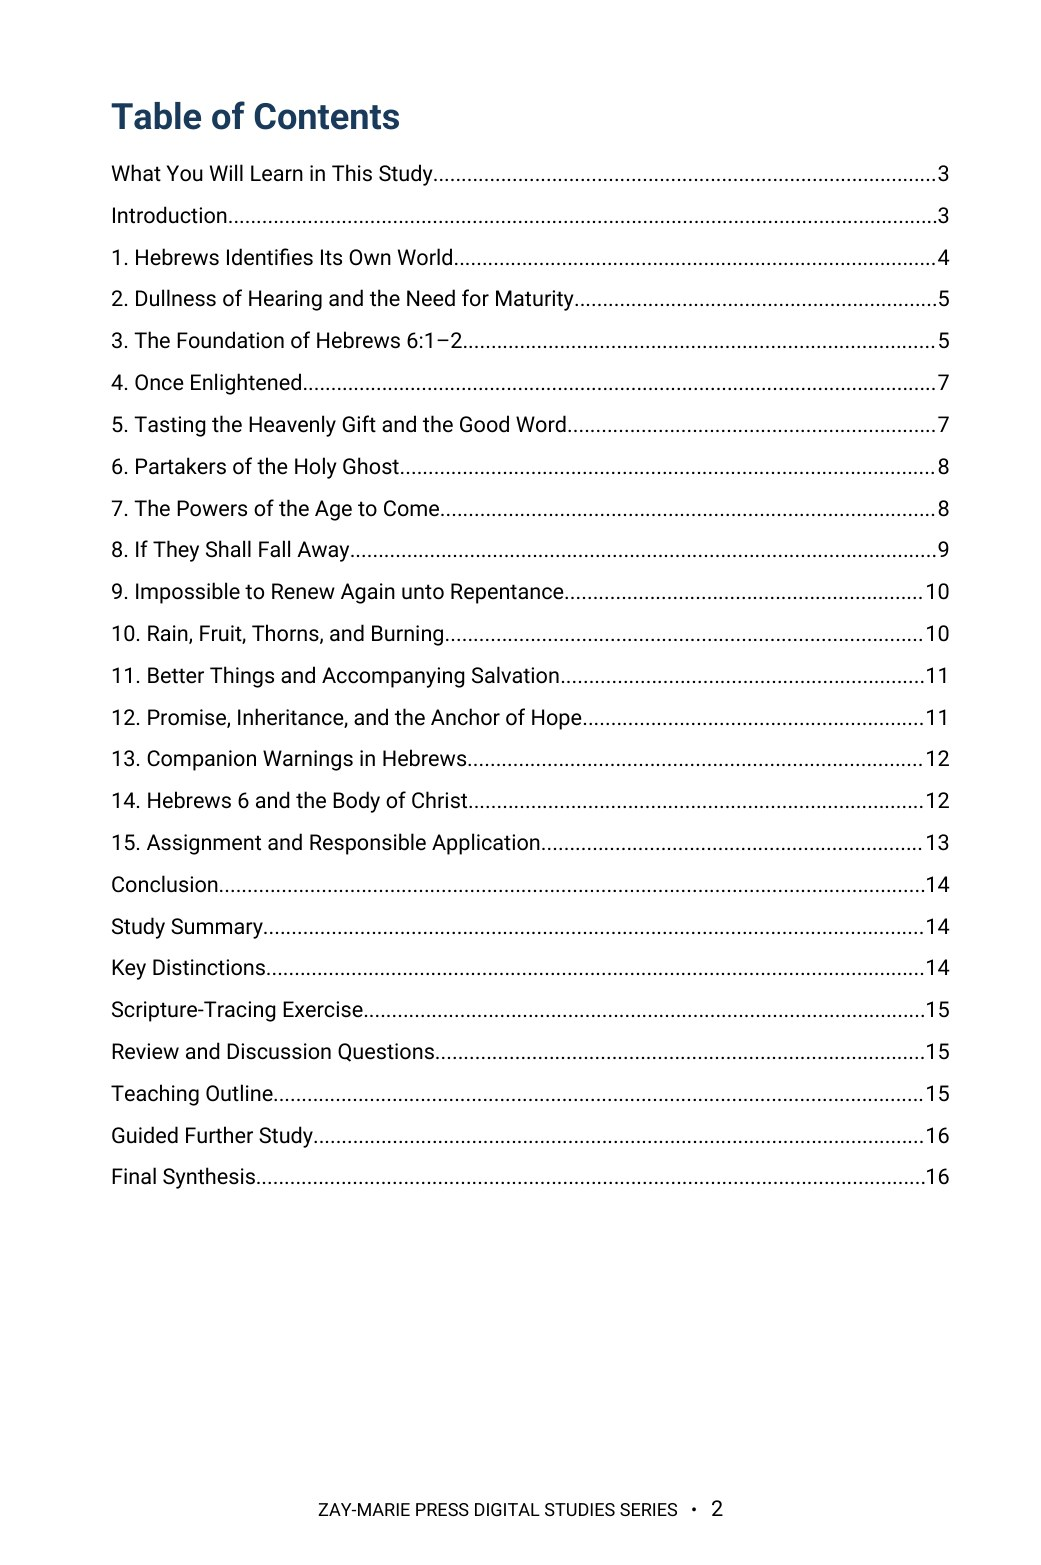
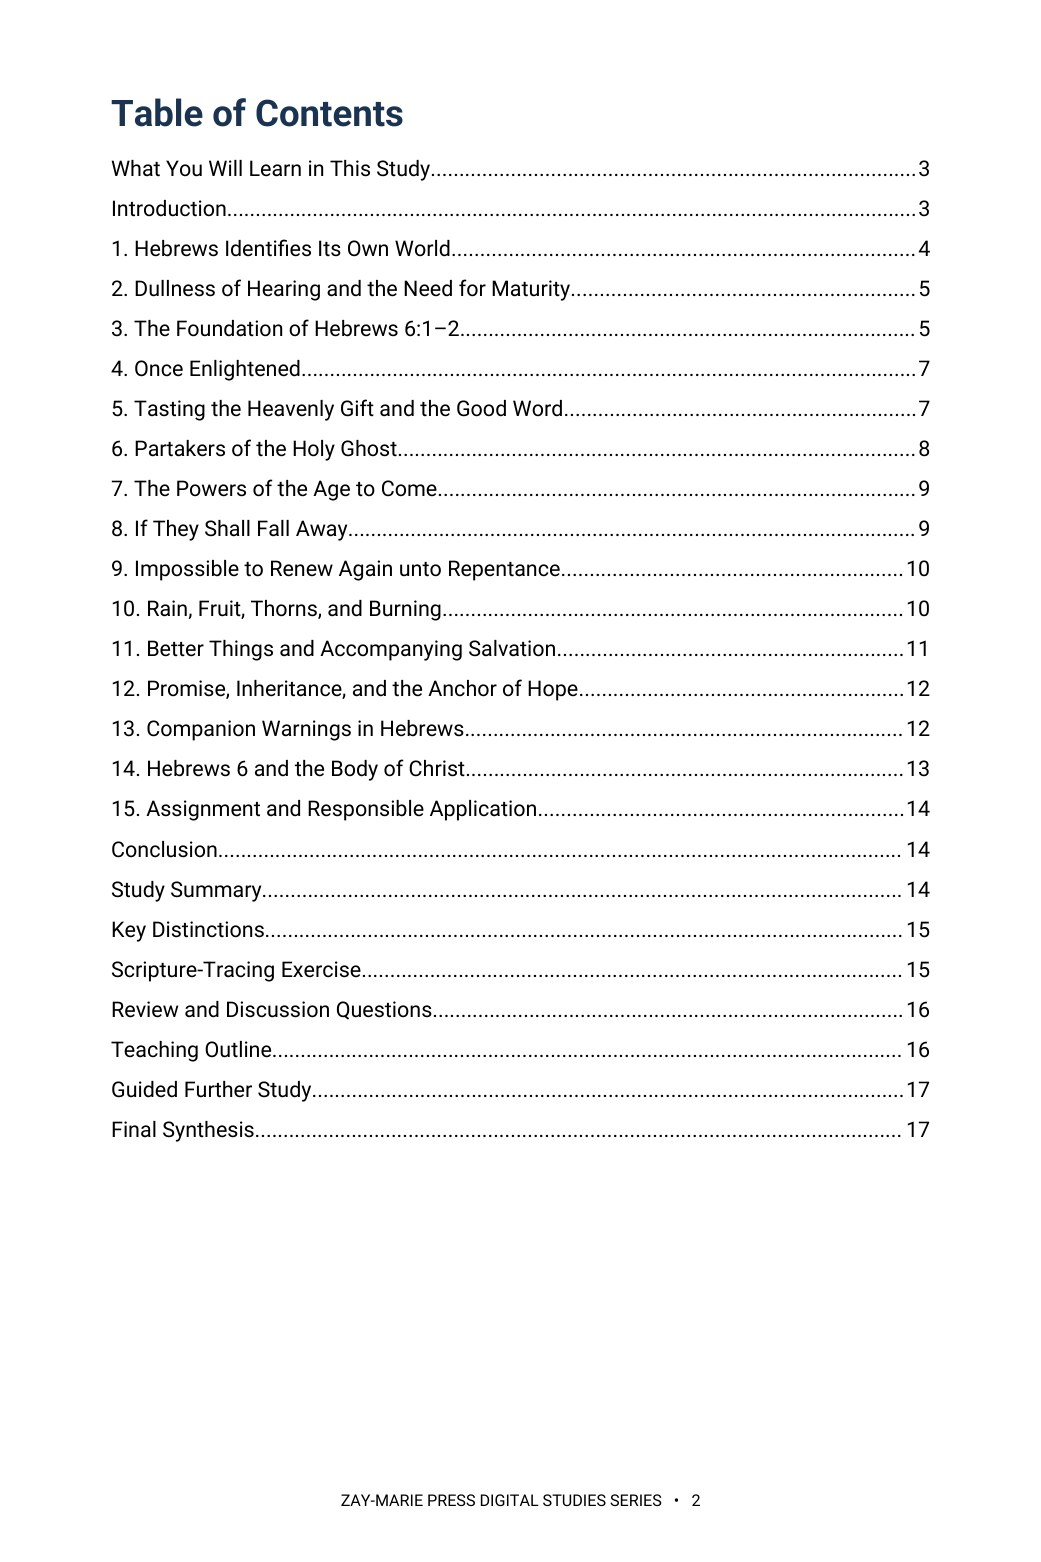
Study 28: page count 17, rebuilt preview pages and trackers for Roboto 10 pt build on current page
Claude-Session: https://claude.ai/code/session_01HC7bs9KYP2scp4hCL6DkTp

diff --git a/site.js b/site.js
@@ -62,7 +62,7 @@ const resourceModal=document.querySelector('#resource-modal'), resourceModalTitl
 if(resourceModal&&resourceModalTriggers.length){const closeResourceModal=()=>{resourceModal.hidden=true;document.body.classList.remove('resource-modal-open');lastResourceTrigger?.focus();};resourceModalTriggers.forEach(trigger=>trigger.addEventListener('click',()=>{lastResourceTrigger=trigger;if(resourceModalTitle)resourceModalTitle.textContent=trigger.dataset.title||'Resource';if(resourceModalDescription)resourceModalDescription.textContent=trigger.dataset.description||'';if(resourceModalLink){resourceModalLink.href=trigger.dataset.href||'#';resourceModalLink.textContent=trigger.dataset.linkText||'OPEN RESOURCE';}resourceModal.hidden=false;document.body.classList.add('resource-modal-open');resourceModalClose?.focus();}));resourceModalClose?.addEventListener('click',closeResourceModal);resourceModal.addEventListener('click',e=>{if(e.target===resourceModal)closeResourceModal();});document.addEventListener('keydown',e=>{if(e.key==='Escape'&&!resourceModal.hidden)closeResourceModal();});}
 
 /* Display the verified final-PDF page count at the primary purchase decision point. */
-const digitalStudyPageCounts={1:17,2:19,3:16,4:17,5:15,6:15,7:14,8:13,9:15,10:20,11:15,12:15,13:18,14:15,15:15,16:16,17:17,18:18,19:16,20:15,21:16,22:15,23:14,24:16,25:17,26:16,27:16,28:16,29:19,30:17,31:18,32:19,33:18,34:16,35:16,36:16,37:16,38:16,39:16,40:16,41:16,42:17,43:17,44:19,45:19,46:20,47:19,48:18,49:20,50:19,51:20,52:19,53:19,54:17,55:20,56:20,57:20,58:19,59:20,60:15,61:16,62:18,63:17,64:17,65:16,66:16,67:17,68:16,69:17,70:17,71:16};
+const digitalStudyPageCounts={1:17,2:19,3:16,4:17,5:15,6:15,7:14,8:13,9:15,10:20,11:15,12:15,13:18,14:15,15:15,16:16,17:17,18:18,19:16,20:15,21:16,22:15,23:14,24:16,25:17,26:16,27:16,28:17,29:19,30:17,31:18,32:19,33:18,34:16,35:16,36:16,37:16,38:16,39:16,40:16,41:16,42:17,43:17,44:19,45:19,46:20,47:19,48:18,49:20,50:19,51:20,52:19,53:19,54:17,55:20,56:20,57:20,58:19,59:20,60:15,61:16,62:18,63:17,64:17,65:16,66:16,67:17,68:16,69:17,70:17,71:16};
 const digitalStudyMatch=window.location.pathname.match(/\/study-(\d+)-/i);
 const digitalStudyFormat=document.querySelector('.detail-hero .detail-format');
 if(digitalStudyMatch&&digitalStudyFormat){const studyNumber=Number(digitalStudyMatch[1]),pageCount=digitalStudyPageCounts[studyNumber];if(pageCount)digitalStudyFormat.textContent=`Digital PDF · ${pageCount} Pages`;}

diff --git a/CLAUDE.md b/CLAUDE.md
@@ -23,7 +23,7 @@ These are kept in the repo at `controlling-documents/` and are the current versi
 - As of v1.50 (publisher directive, 2026-10-03), the **What You Will Learn in This Study** section is always bulleted, never set as running paragraphs, written into this file in the same pass (Master Standard Section 3 item 4, Section 6 structure line, Section 22): a list of bullet points, each describing one process, textual marker or interpretive discipline the reader will practice (Section 17 still governs what they may say); at most one short lead-in line may stand above the bullets (for example, “By the end of this study, you should be able to:”); the Study Goal callout and the Study Outline keep their own forms. It governs every new study and every study rebuilt or retrofitted from now on; earlier studies take it when reopened or when the publisher directs. In every study check (Step 1), report whether the section is bulleted. First applied to Study 43.
 **`controlling-documents/Digital_Studies_Relationship_Map_v1.39.md`** — records each study's distinct subject, its related studies, the eight priced six-study collections, the Paul's Missionary Journeys cross-reference map, and the five primary catalog categories (currently version 1.39, covers Studies 1–71; update it as new studies publish, bump the version number, rename the file to match, and log the change in its own version-history table — mirroring the Master Standard's `_vX.Y` filename convention). Check a proposed topic against it before recommending or writing a new study. (2026-09-28: the file was missing from this repo despite this note referencing it; replaced from the publisher's copy and bumped v1.15→v1.25 in the same pass. If this note ever again points to a version not present under `controlling-documents/`, ask the publisher for a copy rather than proceeding without the check.)
 - **`controlling-documents/Digital_Studies_Category_Standard_v1.1.md`** — FINAL and binding (publisher, 2026-10-01): the rules for the five primary catalog categories (Foundations, Israel & Prophecy, Body of Christ, Passages, Doctrinal Themes), the ordered decision procedure for new studies, the precedents, all 71 fixed assignments, and the cover-label form for each category. Read it before placing any card or cover label. Do not ask the publisher where a study belongs; apply the procedure and state the result. Only the publisher changes a ruling; then bump this Standard's version and filename, re-letter the cover, and update the Relationship Map.
-- **`controlling-documents/Doctrinal_Upgrade_Retrofit_Plan_v1.110.md`** — working tracker for retrofitting Studies 1–59 to the 2026-10-02 doctrinal upgrade (Framework/PAM v1.1, Master Standard v1.40, Rules 7–17): withdrawn-wording search keys, impact tiers, waves and the per-study method. Read it before continuing the retrofit in any session; update status, bump the version and rename the file as work proceeds.
+- **`controlling-documents/Doctrinal_Upgrade_Retrofit_Plan_v1.111.md`** — working tracker for retrofitting Studies 1–59 to the 2026-10-02 doctrinal upgrade (Framework/PAM v1.1, Master Standard v1.40, Rules 7–17): withdrawn-wording search keys, impact tiers, waves and the per-study method. Read it before continuing the retrofit in any session; update status, bump the version and rename the file as work proceeds.
 - **`controlling-documents/Doctrinal_Packet_Standard_v0.3.md`** — Doctrinal Packet Standard (DRAFT; §7 approved). Governs the separate Doctrinal Packets product strand (5-page interpretive PDFs per Bible book — a print-friendly cover as page 1 plus 4 content pages, $2.99, KJV, pilot: Genesis, live at `packet-genesis.html`, hub `doctrinal-packets.html`; site pages say "5 Pages", cover styles live in `packets.css`, Old Testament blue and New Testament soft pale green, hub listed in Bible order). **Preview rule (publisher directive, 2026-09-29, packets only):** previews show about one page's worth in two cropped views (top of page 1 through the anchor texts; the chart section) — never the exegesis, architecture, Mystery contrast, logic chain, outline, or closing. Master Standard §16/§17 still govern Digital Studies. Bump the version and rename the file as the Standard is finalized.
 - **`controlling-documents/Preview_Page_Spoiler_Retrofit_Audit_v1.4.md`** — working tracker for the Studies 1–60 preview-page conclusion-spoiler retrofit (see the section below). Read it before continuing that audit in any session; update its status fields and changelog, bump the version, and rename the file to match as the audit proceeds — same `_vX.Y` convention as the other controlling documents. As of v1.1, the website-side half was DONE: all 60 studies' "What You'll Study" text was judged against the rule (methodology documented in the file) and 22 points across 11 studies were rewritten and pushed; an unrelated Study 22 content bug (Study 21's content had leaked into it) was also found and fixed. As of v1.2, the publisher supplied Studies 1–60's interior production PDFs and the interior-PDF half was also surveyed (read-only): 10 studies (37, 41, 45, 47, 48, 49, 51, 52, 53, 54) were found to have at least one interior "What You Will Learn" violation, 50 studies were confirmed compliant, and the orphaned `assets/study-45-sanctification-under-grace.docx` (removed from the repo per the publisher in v1.0) was confirmed word-for-word identical to Study 45's actual production interior PDF content. As of v1.3, the publisher supplied editable DOCX sources for all 10 violating studies; all 15 violating points were rewritten and approved, delivered as corrected final PDFs, and — along the way — a second defect was found and fixed (Studies 47 and 48's source DOCX still had an unintegrated cover placeholder despite both being long-published live with real covers; fixed by inserting the existing approved cover art). The website's "What You Will Learn" preview image (`study-NN-page-3.jpg`) was regenerated from the corrected content for all 10 studies and pushed to `main` (commit `cea1859`), verified against a fresh clone. **The website side of this audit is now fully compliant for all 60 studies.** Outstanding: the publisher's purchasable interior PDF files themselves have corrected versions delivered, but distribution to existing purchasers was decided by the publisher on 2026-09-29: silent swap of the files behind the existing downloads, no reissue notice (recorded in the v1.4 changelog entry; the product files are not in this repo).
 

diff --git a/controlling-documents/Doctrinal_Upgrade_Retrofit_Plan_v1.111.md b/controlling-documents/Doctrinal_Upgrade_Retrofit_Plan_v1.111.md
@@ -203,3 +203,4 @@ Working tracker for correcting published studies to the Framework/PAM v1.1, Mast
 - v1.108 (2026-10-04): Study 24 rebuilt in Roboto at 10 pt on the current page, 16 pages (unchanged from the old 432×648 build). WYWL opening paragraph removed and lead-in added (eight bullets already process lines, kept); Framework wording removed from the WYWL Hebrews bullet and the section 10 Hebrews sentence (now the reader-facing covenant sentence); two 'Acts Overlap framework' phrases reworded; section 10 numbered; overlap and Rule 17 sentences added; Teaching Outline numbered; typo fixed.
 - v1.109 (2026-10-04): Study 25 rebuilt in Roboto at 10 pt on the current page, 17 pages (unchanged from the old 432×648 build). WYWL opening paragraph removed and lead-in added (eight bullets already process lines, kept); three 'The Framework…' sentences and two 'framework' phrases reworded; Rule 19 sentence added in section 3 (publisher-approved: baptism is a program requirement, not a ground of salvation or a Body requirement); overlap, Rule 17, Rule 11 and Rule 18 short-form sentences added; stray duplicated Review-question paragraph in Scripture-Tracing removed; Teaching Outline numbered.
 - v1.110 (2026-10-04): Study 27 rebuilt in Roboto at 10 pt on the current page, 16 pages (unchanged from the old 432×648 build). WYWL lead-in standardized (eight bullets already process lines, kept); 'revealed framework' reworded; Acts 28 wording conformed (nationally suspended—not canceled, transferred or absorbed); overlap and Rule 17 sentences added after the Pentecost paragraph; reader-facing Hebrews sentence added after the Day of Atonement/Hebrews paragraph; Teaching Outline numbered.
+- v1.111 (2026-10-04): Study 28 rebuilt in Roboto at 10 pt on the current page, 17 pages (was 16 on the old 432×648 page). WYWL lead-in standardized (ten bullets already process lines, kept); three 'Framework' references removed (Hebrews sentence now the reader-facing covenant sentence; 'which the Framework locates in the Mystery' now 'which belongs to the Mystery'); 'Acts Overlap framework' reworded; withdrawn 'finished work … only/sole ground' wording in the Introduction and section 14 replaced with Rule 19 wording (publisher-approved); overlap and Rule 17 sentences added in section 14; Teaching Outline numbered.

diff --git a/controlling-documents/Digital_Studies_PAM_Audit_v1.205.md b/controlling-documents/Digital_Studies_PAM_Audit_v1.205.md
@@ -434,3 +434,4 @@ Study 15 PDF not yet supplied. Typography: none of Studies 2, 3, 6, 8 is in EB G
 - v1.202 (2026-10-04): Study 24 rebuilt in Roboto at 10 pt on the current page, 16 pages; Framework wording removed (Hebrews sentence now reader-facing); overlap and Rule 17 sentences added; Teaching Outline numbered (see Retrofit Plan v1.108).
 - v1.203 (2026-10-04): Study 25 rebuilt in Roboto at 10 pt on the current page, 17 pages; Framework wording removed; Rule 19, overlap, Rule 17, Rule 11 and Rule 18 sentences added; Teaching Outline numbered (see Retrofit Plan v1.109).
 - v1.204 (2026-10-04): Study 27 rebuilt in Roboto at 10 pt on the current page, 16 pages; Acts 28 wording conformed; overlap, Rule 17 and Hebrews sentences added; Teaching Outline numbered (see Retrofit Plan v1.110).
+- v1.205 (2026-10-04): Study 28 rebuilt in Roboto at 10 pt on the current page, 17 pages; withdrawn finished-work shared-ground wording replaced with Rule 19; Framework wording removed; overlap and Rule 17 sentences added; Teaching Outline numbered (see Retrofit Plan v1.111).
